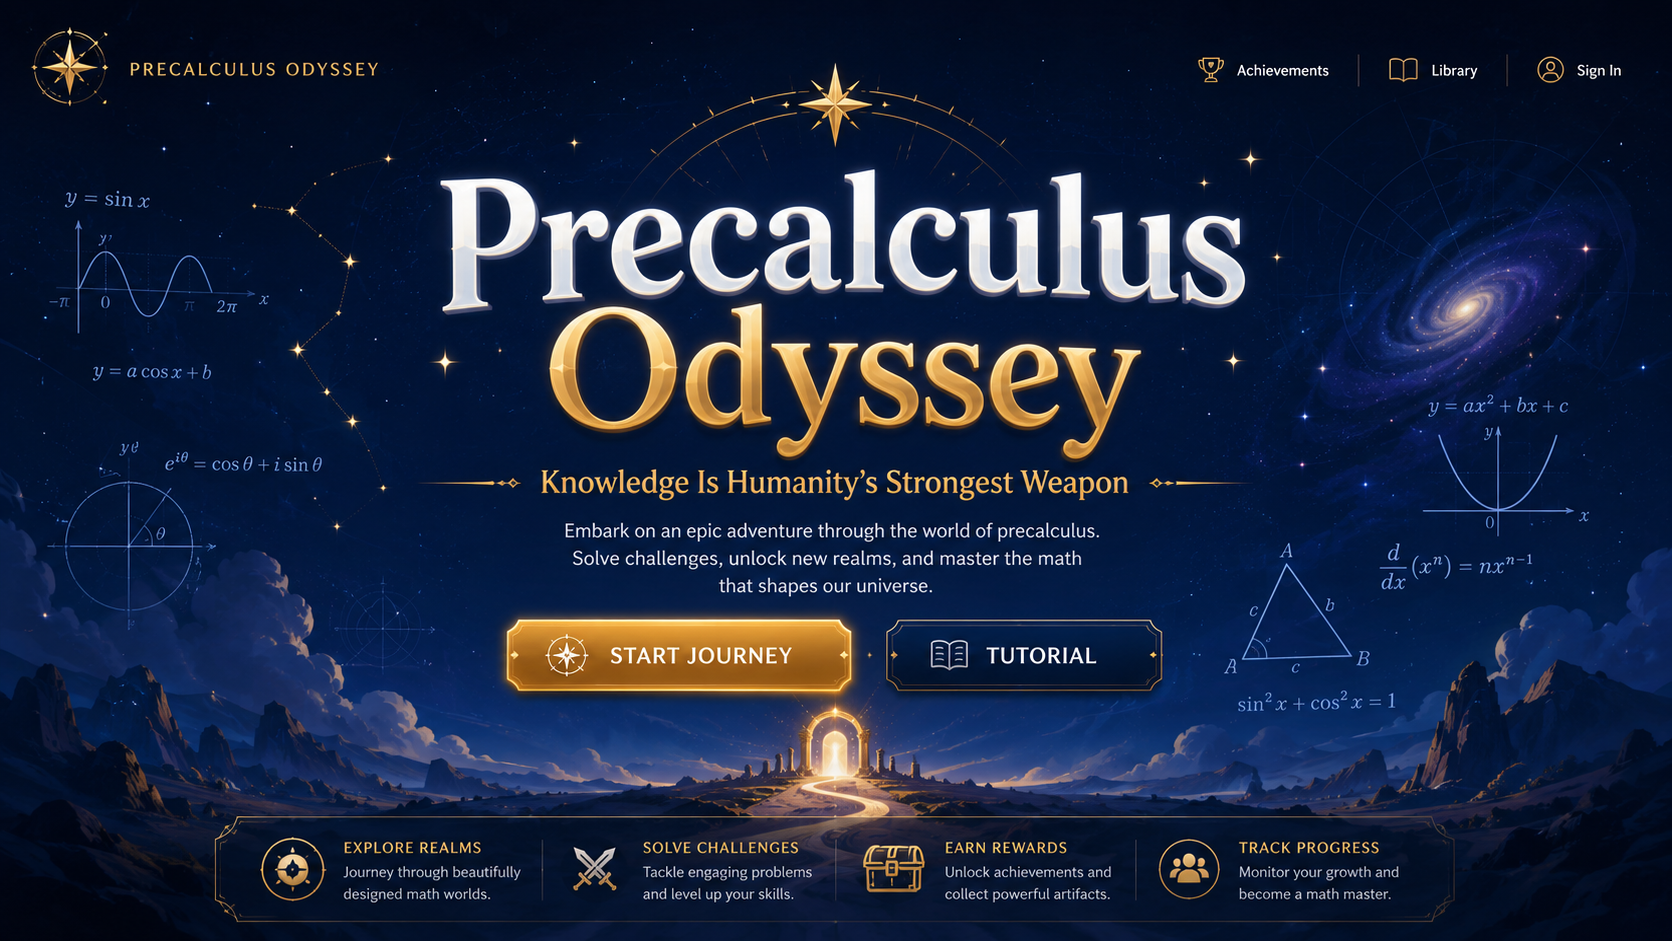
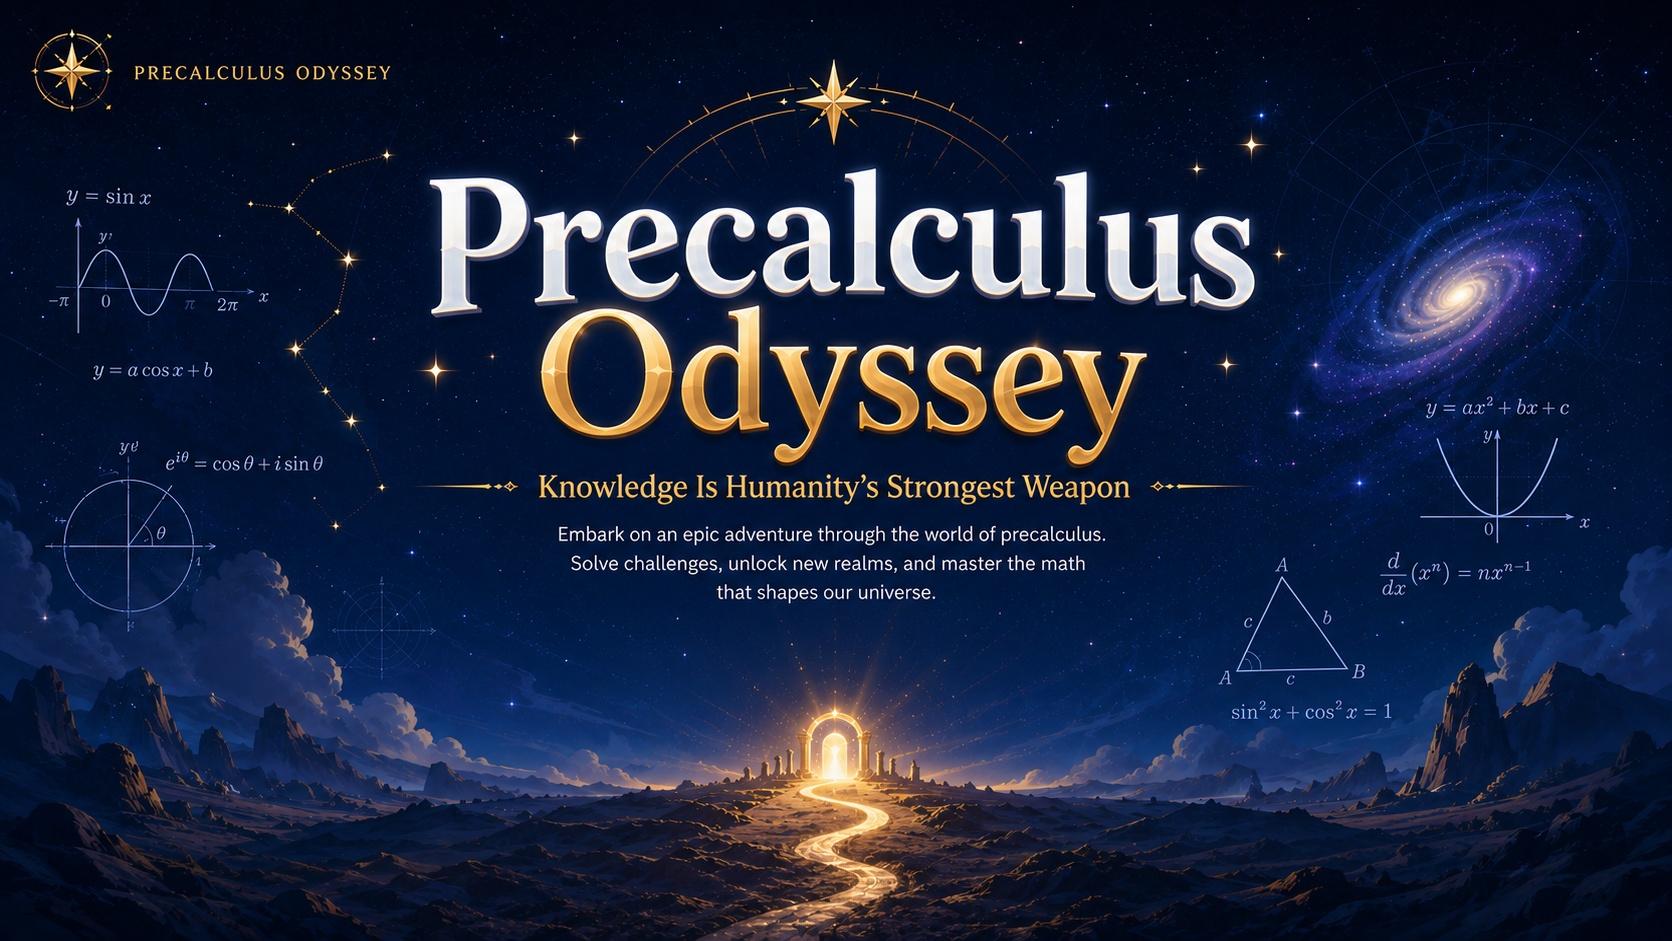
Use the updated welcome-hero.png (bump bg cache token v1->v2)
The hero image was replaced on disk (1.88MB -> 2.11MB) but the CSS pinned the
background to welcome-hero.png?v=1, so browsers kept serving the cached old
image. Bump the background-image token to ?v=2 (+ index.html ?v= to ag) so the
new artwork is fetched. Verified in-browser: the served file is now the new
2,107,653-byte image.

diff --git a/game/index.html b/game/index.html
@@ -7,14 +7,14 @@
 <link rel="preconnect" href="https://fonts.googleapis.com" />
 <link rel="preconnect" href="https://fonts.gstatic.com" crossorigin />
 <link href="https://fonts.googleapis.com/css2?family=Cinzel:wght@600;700&family=Patrick+Hand&family=Quicksand:wght@500;600;700&display=swap" rel="stylesheet" />
-<link rel="stylesheet" href="css/styles.css?v=20260714af" />
-<link rel="stylesheet" href="css/map.css?v=20260714af" />
-<link rel="stylesheet" href="css/chest.css?v=20260714af" />
-<link rel="stylesheet" href="css/wonderland.css?v=20260714af" />
-<link rel="stylesheet" href="css/farm.css?v=20260714af" />
-<link rel="stylesheet" href="css/alchemy.css?v=20260714af" />
-<link rel="stylesheet" href="css/item-store.css?v=20260714af" />
-<link rel="stylesheet" href="css/systems.css?v=20260714af" />
+<link rel="stylesheet" href="css/styles.css?v=20260714ag" />
+<link rel="stylesheet" href="css/map.css?v=20260714ag" />
+<link rel="stylesheet" href="css/chest.css?v=20260714ag" />
+<link rel="stylesheet" href="css/wonderland.css?v=20260714ag" />
+<link rel="stylesheet" href="css/farm.css?v=20260714ag" />
+<link rel="stylesheet" href="css/alchemy.css?v=20260714ag" />
+<link rel="stylesheet" href="css/item-store.css?v=20260714ag" />
+<link rel="stylesheet" href="css/systems.css?v=20260714ag" />
 </head>
 <body>
 
@@ -540,52 +540,52 @@
        (Not ES modules, so double-clicking this file from disk still works.) -->
   <!-- Config = pure content data (star systems, planets, story, …). Loads FIRST so the
        logic modules below read from it. Add content by editing these — see CONFIG_GUIDE.md. -->
-  <script src="config/worlds.config.js?v=20260714af"></script>
-  <script src="config/curriculum.config.js?v=20260714af"></script>
-  <script src="config/tutorials.config.js?v=20260714af"></script>
-  <script src="config/astro.config.js?v=20260714af"></script>
-  <script src="config/rooms.config.js?v=20260714af"></script>
-  <script src="config/planets.config.js?v=20260714af"></script>
-  <script src="config/story.config.js?v=20260714af"></script>
-  <script src="config/economy.config.js?v=20260714af"></script>
-  <script src="config/elements.config.js?v=20260714af"></script>
-  <script src="config/gear.config.js?v=20260714af"></script>
-  <script src="config/spells.config.js?v=20260714af"></script>
-  <script src="js/01-data.js?v=20260714af"></script>
-  <script src="js/02-dom.js?v=20260714af"></script>
-  <script src="js/03-save.js?v=20260714af"></script>
-  <script src="js/04-logic.js?v=20260714af"></script>
-  <script src="js/09-items.js?v=20260714af"></script>
-  <script src="js/21-catalogue.js?v=20260714af"></script>
-  <script src="js/14-lore.js?v=20260714af"></script>
-  <script src="js/05-render.js?v=20260714af"></script>
-  <script src="js/06-rpg-battle.js?v=20260714af"></script>
-  <script src="js/13-audio.js?v=20260714af"></script>
-  <script src="js/15-map.js?v=20260714af"></script>
-  <script src="js/16-chest.js?v=20260714af"></script>
-  <script src="js/17-wonderland.js?v=20260714af"></script>
-  <script src="js/34-wonder-games.js?v=20260714af"></script>
-  <script src="js/35-block-forge.js?v=20260714af"></script>
-  <script src="js/36-arcade.js?v=20260714af"></script>
-  <script src="js/18-farm.js?v=20260714af"></script>
-  <script src="js/19-alchemy.js?v=20260714af"></script>
-  <script src="js/20-item-store.js?v=20260714af"></script>
-  <script src="js/26-spells.js?v=20260714af"></script>
-  <script src="js/22-profile.js?v=20260714af"></script>
-  <script src="js/24-trading.js?v=20260714af"></script>
-  <script src="js/25-nav.js?v=20260714af"></script>
-  <script src="js/27-hoohey.js?v=20260714af"></script>
-  <script src="js/28-arena-generators.js?v=20260714af"></script>
-  <script src="js/29-tutorial.js?v=20260714af"></script>
-  <script src="js/30-bodyart.js?v=20260714af"></script>
-  <script src="js/31-graph.js?v=20260714af"></script>
-  <script src="js/cloud-save.js?v=20260714af"></script>
-  <script src="js/cloud-ui.js?v=20260714af"></script>
-  <script src="js/07-main.js?v=20260714af"></script>
-  <script src="js/08-layout.js?v=20260714af"></script>
-  <script src="js/32-tooltip.js?v=20260714af"></script>
-  <script src="js/33-variety.js?v=20260714af"></script>
-  <script src="js/cloud-auth.js?v=20260714af"></script>
+  <script src="config/worlds.config.js?v=20260714ag"></script>
+  <script src="config/curriculum.config.js?v=20260714ag"></script>
+  <script src="config/tutorials.config.js?v=20260714ag"></script>
+  <script src="config/astro.config.js?v=20260714ag"></script>
+  <script src="config/rooms.config.js?v=20260714ag"></script>
+  <script src="config/planets.config.js?v=20260714ag"></script>
+  <script src="config/story.config.js?v=20260714ag"></script>
+  <script src="config/economy.config.js?v=20260714ag"></script>
+  <script src="config/elements.config.js?v=20260714ag"></script>
+  <script src="config/gear.config.js?v=20260714ag"></script>
+  <script src="config/spells.config.js?v=20260714ag"></script>
+  <script src="js/01-data.js?v=20260714ag"></script>
+  <script src="js/02-dom.js?v=20260714ag"></script>
+  <script src="js/03-save.js?v=20260714ag"></script>
+  <script src="js/04-logic.js?v=20260714ag"></script>
+  <script src="js/09-items.js?v=20260714ag"></script>
+  <script src="js/21-catalogue.js?v=20260714ag"></script>
+  <script src="js/14-lore.js?v=20260714ag"></script>
+  <script src="js/05-render.js?v=20260714ag"></script>
+  <script src="js/06-rpg-battle.js?v=20260714ag"></script>
+  <script src="js/13-audio.js?v=20260714ag"></script>
+  <script src="js/15-map.js?v=20260714ag"></script>
+  <script src="js/16-chest.js?v=20260714ag"></script>
+  <script src="js/17-wonderland.js?v=20260714ag"></script>
+  <script src="js/34-wonder-games.js?v=20260714ag"></script>
+  <script src="js/35-block-forge.js?v=20260714ag"></script>
+  <script src="js/36-arcade.js?v=20260714ag"></script>
+  <script src="js/18-farm.js?v=20260714ag"></script>
+  <script src="js/19-alchemy.js?v=20260714ag"></script>
+  <script src="js/20-item-store.js?v=20260714ag"></script>
+  <script src="js/26-spells.js?v=20260714ag"></script>
+  <script src="js/22-profile.js?v=20260714ag"></script>
+  <script src="js/24-trading.js?v=20260714ag"></script>
+  <script src="js/25-nav.js?v=20260714ag"></script>
+  <script src="js/27-hoohey.js?v=20260714ag"></script>
+  <script src="js/28-arena-generators.js?v=20260714ag"></script>
+  <script src="js/29-tutorial.js?v=20260714ag"></script>
+  <script src="js/30-bodyart.js?v=20260714ag"></script>
+  <script src="js/31-graph.js?v=20260714ag"></script>
+  <script src="js/cloud-save.js?v=20260714ag"></script>
+  <script src="js/cloud-ui.js?v=20260714ag"></script>
+  <script src="js/07-main.js?v=20260714ag"></script>
+  <script src="js/08-layout.js?v=20260714ag"></script>
+  <script src="js/32-tooltip.js?v=20260714ag"></script>
+  <script src="js/33-variety.js?v=20260714ag"></script>
+  <script src="js/cloud-auth.js?v=20260714ag"></script>
 
 </body>
 </html>

diff --git a/game/css/systems.css b/game/css/systems.css
@@ -120,7 +120,7 @@
      ============================================================================ */
   .start-screen-overlay.auth-dock-mode{
     display:block; padding:0; overflow:auto; isolation:isolate;
-    background:#050918 url('../assets/welcome-hero.png?v=1') center top / cover no-repeat;
+    background:#050918 url('../assets/welcome-hero.png?v=2') center top / cover no-repeat;
   }
   /* Darken only the bottom so the title/compass stay clear */
   .auth-dock-mode::after{
